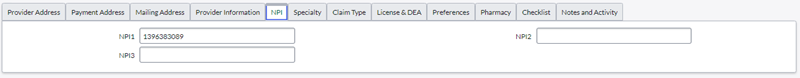
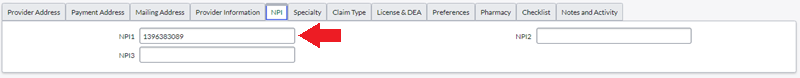
update images and verbiage

Changed region(s): [[0.375, 0.3077, 0.4375, 0.5897]]

diff --git a/tauri-app/src/walkthrough.html b/tauri-app/src/walkthrough.html
@@ -1404,7 +1404,7 @@
             <><br/>• In CICS, check the group's specialty coverage.<br/></>,
             <>• From the 02 page, press F5 to view existing specialties.</>,
             <>• If the provider's specialty isn't listed, verify if it's covered under another specialty (e.g., 420, 110, 750).<br/><br/></>,
-            <div style={{ color: 'rgb(150, 150, 255)'}}><em>If you are still unsure, please reach out in the chat, or to leadership so that you can get the answer you need.</em></div>
+            <><em>If you are still unsure, please reach out in the chat, or to leadership so that you can get the answer you need.</em></>
           ],
 		  noBullets: true,
           displayImage: groupSpecialtyImage
@@ -1423,7 +1423,11 @@
               validation: (value) => value === true
             }
           ],
-          instructionText: 'Back in SNOW, navigate to the bottom of the PWO and locate the "Enrollment Applications" tab.\n\nYou will see a new Enrollment Application associated with the provider information you just entered.\n\nClick on the PWO to take you to the enrollment application.',
+		  pageNotes: [
+            <>• In SNOW, navigate to the "Enrollment Applications" tab.</>,
+            <>• Click on the enrollment PWO to take you to the enrollment application.</>
+          ],
+		  noBullets: true,
           displayImage: enrollmentTabImage
         },
         {
@@ -1455,13 +1459,20 @@
             },
             {
               name: 'cancelReasonCode',
-              label: 'Complete: Cancel Reason Code should remain 00',
+              label: 'Complete: Cancel Reason Code should be 00',
               type: 'checkbox',
               required: true,
               validation: (value) => value === true
             }
           ],
-          instructionText: 'Once you are in the Enrollment Application, check the name, provider type, application date and cancel reason code to ensure you entered the providers data correctly.'
+		  pageNotes: [
+            <><strong>In the Enrollment Application, ensure you entered the providers data correctly.</strong><br/></>,
+            <>• Check the <strong>Name</strong>.</>,
+			<>• Check the <strong>Provider Type</strong>. (If incorrect, reach out to leadership)</>,
+			<>• Check the <strong>Application Date</strong>.</>,
+			<>• Check the <strong>Cancel Reason Code</strong>.</>
+          ],
+		  noBullets: true,
         },
         {
           id: 'provider-address-tab',
@@ -1477,7 +1488,11 @@
               validation: (value) => value === true
             }
           ],
-          instructionText: 'The street address will be the practice address found on question 6 of the Group Practice Application.\n\nThe phone number, and fax number can be found on questions 11 and 14 in the Group Practice Application',
+		  pageNotes: [
+            <>• The <strong>street address</strong> is the <strong>practice address</strong> on question 6 of the Group Practice Application.</>,
+            <>• The <strong>phone number</strong>, and <strong>fax number</strong> are on questions 11 and 14 of the Group Practice Application</>
+          ],
+		  noBullets: true,
           displayImage: providerAddressImage
         },
         {
@@ -1494,7 +1509,11 @@
               validation: (value) => value === true
             }
           ],
-          instructionText: 'By default these inherit the street address from the Provider Address tab. These do not need to be changed in SNOW, but will need to be updated in CICS once the provider is added to the group.',
+		  pageNotes: [
+            <>These inherit the street address from the Provider Address tab by default.</>,
+            <>No changes needed in SNOW, but update in CICS after adding the provider to the group.</>
+          ],
+		  noBullets: true,
           displayImage: mailingAddressImage
         },
         {
@@ -1511,7 +1530,16 @@
               validation: (value) => value === true
             }
           ],
-          instructionText: 'The Eligibility Begin date will be the Requested Effective Date on question 20 of the Group Practice Application.\n\nA Requested Effective Date might not be provided. If that is the case, The effective date will go one year back from the stamped date as long as the license can cover it.\n\nIf the Requested Effective Date is further than a year back, we will go back 1 year from the stamped date on the application, as long as the individual providers license covers that far back. If the license does not cover that far back, you can only go as far back as the issue date of the license.\n\nThe Eligibility End date will remain blank.\n\nIf the provider has a Medicare Number, you can enter it in the Medicare Number field.',
+          pageNotes: [
+            <><br/><u><strong>Eligibility Begin Date:</strong></u></>,
+            <>• Use the Requested Effective Date from question 20 of the Group Practice Application.</>,
+            <>• If not provided or exceeds one year back, use one year prior to the stamped date, limited by the provider's license issue date.<br/><br/></>,
+			<><u><strong>Eligibility End Date:</strong></u></>,
+            <>• Leave blank.<br/><br/></>,
+            <><u><strong>Medicare Number:</strong></u></>,
+            <>• Enter if available.</>
+          ],
+		  noBullets: true,
           displayImage: providerInfoTabImage
         },
         {
@@ -1528,7 +1556,10 @@
               validation: (value) => value === true
             }
           ],
-          instructionText: 'The NPI number for the individual provider should already be populated into this tab. If it is not, you will enter it here.',
+		  pageNotes: [
+            <>• Enter the provider's NPI if not already populated.</>
+          ],
+		  noBullets: true,
           displayImage: npiTabImage
         },
         {
@@ -1545,7 +1576,14 @@
               validation: (value) => value === true
             }
           ],
-          instructionText: 'This is a good time to triple check the specialty.\n\nSpecialty 1 Begin Date will be the same as the Eligibility Begin date as on the Provider Information tab.\n\nFor NURSES, Specialty 1 End Date will be the date their Board Certificate expires\n\nFor DOCTORS & PAs, Specialty 1 End Date will remain blank',
+		  pageNotes: [
+            <><br/><u><strong>Specialty 1 Begin Date:</strong></u></>,
+            <>• Same as Eligibility Begin date.<br/><br/></>,
+			<><u><strong>Specialty 1 End Date:</strong></u></>,
+            <>• Board Certificate expiration date for APN, CNM, and CRNA.<br/><br/></>,
+            <>• Leave blank for all other provider types.</>
+          ],
+		  noBullets: true,
           displayImage: specTabImage
         },
         {
@@ -1562,18 +1600,25 @@
               validation: (value) => value === true
             }
           ],
-          instructionText: 'Claim Types can be determined by using the resource below.',
+		  pageNotes: [
+            <>Claim Types can be determined by using the resource below.</>
+          ],
+		  noBullets: true,
           resourceText: 'Use this resource to determine claim types:',
           resources: [
             { label: 'Provider Types and Specialties', url: './ProviderTypesSpecialties.pdf', type: 'pdf' }
           ],
           displayImage: claimTabImage,
           pageNotes: [
-            'Example: A Provider Type 70 with a Specialty of 190 will get Claim Types 13, 15, 22',
-            'Claim Type 1 Begin Date will be the same as the Eligibility Begin date as on the Provider Information tab.',
-            'Claim Type 1 End Date will remain blank.',
-            'NOTE: Not all specialties have 3 claim types like this example. Some will have 1 and some will have 2. The begin dates for each claim type will be the same date.'
-          ]
+            <><br/><u><strong>Claim Type Example:</strong></u></>,
+            <>• Provider Type 70 with Specialty 190 gets Claim Types 13, 15, 22.<br/><br/></>,
+			<><u><strong>Claim Type 1 Begin Date:</strong></u></>,
+            <>• Same as Eligibility Begin date.<br/><br/></>,
+            <><u><strong>End Date: </strong></u></>,
+			<>• Leave blank. </>
+          ],
+		  noBullets: true,
+		  noteText: 'Note: Specialties vary (1-3 claim types). All begin dates match.'
         },
         {
           id: 'license-dea-tab',
